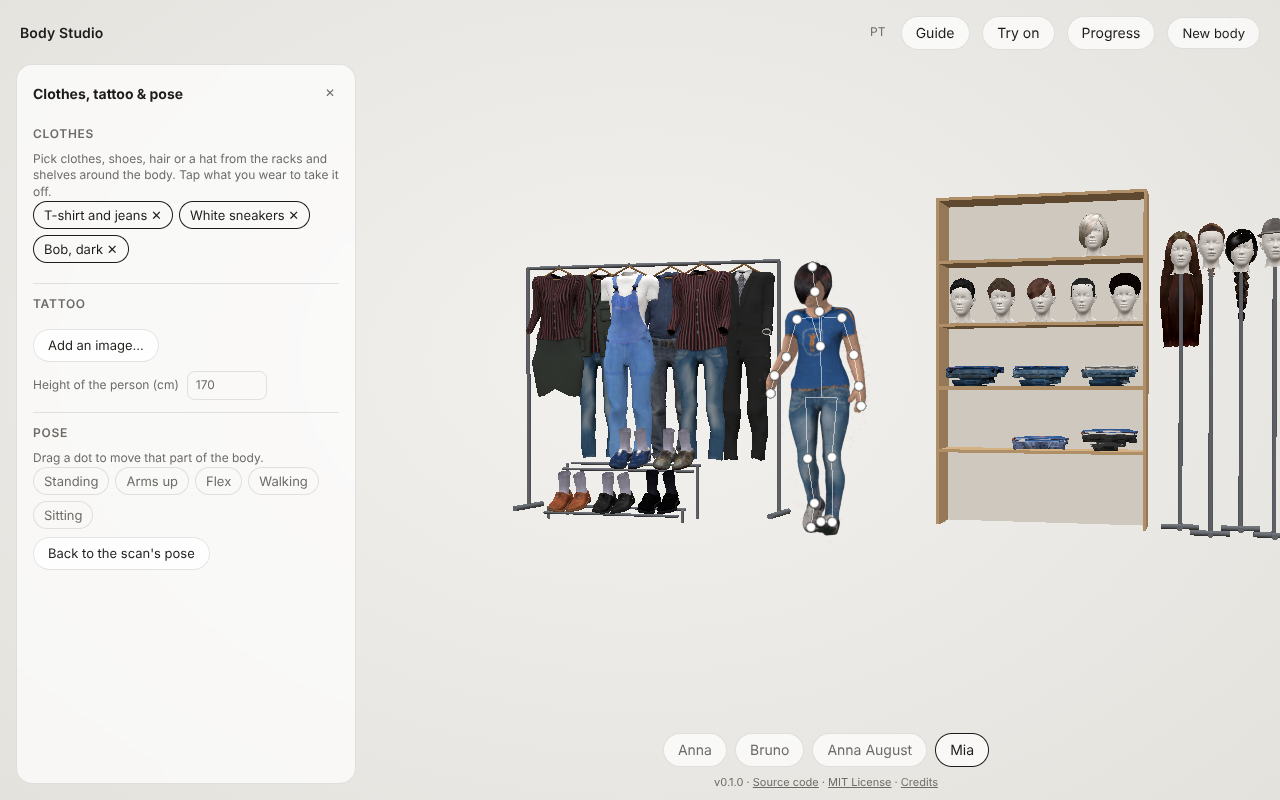
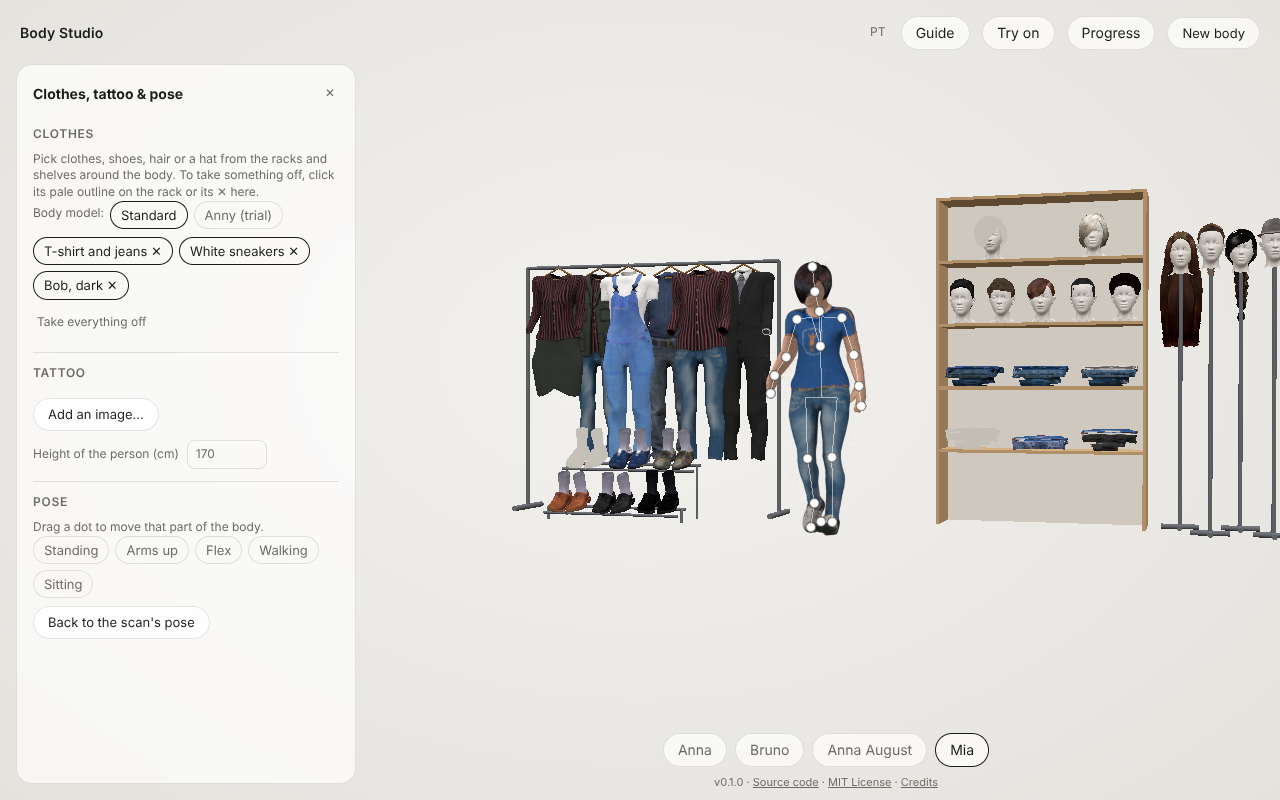
Anny installs itself: body-studio setup and the first click on Anny
body-studio setup now installs PyTorch and Anny along with ffmpeg, COLMAP and Brush, and if
they're missing the first Anny fit the page asks for installs them into the app's Python (pip),
so the Body model switch is always shown and nothing has to be typed. A failed install is a
clear "anny" error in the panel; the standard fit is untouched. body-studio check lists Anny.

Claude-Session: https://claude.ai/code/session_012L63hZcjZNdHq7UGooSUwi

diff --git a/src/body_studio/static/i18n.js b/src/body_studio/static/i18n.js
@@ -87,6 +87,7 @@
       "rig.err.arms": "The arms weren't found: they should be held a little away from the body (A-pose).",
       "rig.err.feet": "The feet weren't found: film the whole person, feet included.",
       "rig.err.shape": "It doesn't look like a person standing in an A-pose.",
+      "rig.err.anny": "PyTorch and Anny couldn't be installed (is the Mac online?). Pick Standard: Anny is tried again the next time the app starts.",
       "tat.title": "Tattoo",
       "tat.add": "Add an image…",
       "tat.place": "Now tap the body where it goes.",
@@ -169,7 +170,7 @@
       "wear.model": "Body model:",
       "wear.model.standard": "Standard",
       "wear.model.anny": "Anny (trial)",
-      "wear.fittingAnny": "Fitting the Anny body model to this body… About two minutes, once per body.",
+      "wear.fittingAnny": "Fitting the Anny body model to this body… About two minutes, once per body (the very first time a few minutes more, to install it).",
       "foot.credits": "Credits",
       "wear.item.tee_jeans_f": "T-shirt and jeans",
       "wear.item.tee_shorts": "T-shirt and denim shorts",
@@ -284,6 +285,7 @@
       "rig.err.arms": "Os braços não foram encontrados: eles devem ficar um pouco afastados do corpo (pose A).",
       "rig.err.feet": "Os pés não foram encontrados: filme a pessoa inteira, com os pés.",
       "rig.err.shape": "Não parece uma pessoa em pé na pose A.",
+      "rig.err.anny": "Não foi possível instalar o PyTorch e o Anny (o Mac está conectado?). Escolha Padrão: o Anny será tentado de novo quando o app for aberto outra vez.",
       "tat.title": "Tatuagem",
       "tat.add": "Adicionar imagem…",
       "tat.place": "Agora toque no corpo onde ela vai ficar.",
@@ -366,7 +368,7 @@
       "wear.model": "Modelo de corpo:",
       "wear.model.standard": "Padrão",
       "wear.model.anny": "Anny (teste)",
-      "wear.fittingAnny": "Ajustando o modelo de corpo Anny a este corpo… Cerca de dois minutos, uma vez por corpo.",
+      "wear.fittingAnny": "Ajustando o modelo de corpo Anny a este corpo… Cerca de dois minutos, uma vez por corpo (na primeira vez, alguns minutos a mais para instalá-lo).",
       "foot.credits": "Créditos",
       "wear.item.tee_jeans_f": "Camiseta e jeans",
       "wear.item.tee_shorts": "Camiseta e short jeans",

diff --git a/tests/unit/test_anny_fit.py b/tests/unit/test_anny_fit.py
@@ -1,10 +1,11 @@
-"""The Anny trial (anny_fit.py): without PyTorch it says how to install it; with PyTorch and Anny
-installed (pip install '.[anny]') it fits the MakeHuman test body and its file is one the
+"""The Anny trial (anny_fit.py): without PyTorch it installs it (setup, or the first fit), and says
+so when it can't; with PyTorch and Anny installed it fits the MakeHuman test body and its file is one the
 clothes accept. CI has no PyTorch, so the fitting tests run only where it is installed."""
 import contextlib
 import io
 import json
 import math
+import subprocess
 import sys
 import tempfile
 import unittest
@@ -24,16 +25,62 @@ except ImportError:
     HAVE = False
 
 
+def pip_fails(cmd, **kw):
+    return subprocess.CompletedProcess(cmd, 1, "ERROR: No matching distribution found for torch>=2.0\n")
+
+
 class WithoutTorch(unittest.TestCase):
-    def test_says_how_to_install_it(self):
+    def test_says_when_it_cant_install_it(self):
         with tempfile.TemporaryDirectory() as tmp:
             ply = Path(tmp) / "body.ply"
             write_body(ply, n=20000)
-            with mock.patch.dict(sys.modules, {"torch": None, "anny": None}):
+            with mock.patch.object(anny_fit, "available", lambda: False), \
+                    mock.patch.object(anny_fit.subprocess, "run", side_effect=pip_fails) as run:
                 with self.assertRaises(SystemExit) as e:
                     cli.main(["fit-anny", str(ply)])
-            self.assertIn("pip install 'body-studio[anny]'", str(e.exception.code))
+            self.assertIn("couldn't install PyTorch and Anny", str(e.exception.code))
+            self.assertIn("No matching distribution", str(e.exception.code))
+            self.assertEqual(run.call_args.args[0], [sys.executable, "-m", "pip", "install", "anny>=0.6", "torch>=2.0"])
             self.assertFalse(anny_fit.fit_file(ply).exists())
+
+    def test_installs_once_into_this_python(self):
+        """Into the app's own Python, and not again once it's there."""
+        state = {"in": False}
+
+        def pip(cmd, **kw):
+            state["in"] = True
+            return subprocess.CompletedProcess(cmd, 0, "")
+        with mock.patch.object(anny_fit, "available", lambda: state["in"]), \
+                mock.patch.object(anny_fit.subprocess, "run", side_effect=pip) as run:
+            anny_fit.install()
+            anny_fit.install()
+        self.assertEqual(run.call_count, 1)
+        self.assertEqual(run.call_args.args[0][:4], [sys.executable, "-m", "pip", "install"])
+
+    def test_the_extra_and_the_install_agree(self):
+        text = (Path(__file__).resolve().parents[2] / "pyproject.toml").read_text()
+        self.assertIn("anny = " + json.dumps(list(anny_fit.REQUIRES)), text)
+
+    def test_setup_installs_it(self):
+        """`body-studio setup` installs PyTorch and Anny with the other tools; a failure there
+        doesn't stop the rest. `check` lists it."""
+        calls = []
+        splat = mock.MagicMock(side_effect=lambda argv: calls.append(("splat", argv)))
+        with mock.patch.dict(sys.modules, {"splat_studio.__main__": mock.MagicMock(main=splat)}):
+            with mock.patch.object(anny_fit, "install", side_effect=lambda log: calls.append(("anny",))):
+                cli.main(["setup"])
+                cli.main(["setup", "--masking"])
+            self.assertEqual(calls, [("anny",), ("splat", ["setup"]), ("splat", ["setup", "--masking"])])
+            out = io.StringIO()
+            with mock.patch.object(anny_fit, "install", side_effect=anny_fit.Missing("couldn't install PyTorch and Anny")), \
+                    contextlib.redirect_stdout(out):
+                cli.main(["setup"])
+            self.assertIn("left out", out.getvalue())
+            self.assertEqual(splat.call_args.args[0], ["setup"])
+            out = io.StringIO()
+            with mock.patch.object(anny_fit, "available", lambda: False), contextlib.redirect_stdout(out):
+                cli.main(["check"])
+            self.assertIn("· Anny", out.getvalue())
 
     def test_help_needs_no_torch(self):
         out = io.StringIO()
@@ -52,7 +99,7 @@ class WithoutTorch(unittest.TestCase):
             self.assertTrue(anny_fit.body_slider(label), label)
 
 
-@unittest.skipUnless(HAVE, "PyTorch and Anny aren't installed (pip install '.[anny]')")
+@unittest.skipUnless(HAVE, "PyTorch and Anny aren't installed (body-studio setup, or pip install '.[anny]')")
 class WithAnny(unittest.TestCase):
     @classmethod
     def setUpClass(cls):

diff --git a/src/body_studio/anny_fit.py b/src/body_studio/anny_fit.py
@@ -1,11 +1,12 @@
 """Trial: MakeHuman's base mesh fitted to a body with Anny, a PyTorch body model, in place of
 fit.py's shape solve, bone bending and shrinkwrap. Optional and experimental, to compare the two.
 
-    pip install 'body-studio[anny]'          PyTorch and Anny (Apache-2.0 code, CC0 MakeHuman data)
+    body-studio setup                        also installs PyTorch and Anny (Apache-2.0 code, CC0 MakeHuman data)
     body-studio fit-anny BODY.ply [--no-wrap]  writes BODY.anny.fit.json next to BODY.fit.json
 
-When it is installed, the Try on panel offers a switch between the two body models (the page asks
-GET /api/fit?model=anny), and the server makes this file the first time it is asked for.
+The Try on panel offers a switch between the two body models (the page asks GET
+/api/fit?model=anny), and the server makes this file the first time it is asked for. Without
+PyTorch and Anny, that first time installs them into the app's Python (install()): nothing to type.
 
 Anny (https://github.com/naver/anny) is MakeHuman with its shape sliders made differentiable:
 eleven overall ones (gender, age, muscle, weight, height, proportions, cup size, firmness and
@@ -36,7 +37,9 @@ from __future__ import annotations
 import argparse
 import json
 import math
+import subprocess
 import sys
+import threading
 from functools import lru_cache
 from pathlib import Path
 
@@ -59,8 +62,14 @@ POSE_BONES = ("spine01", "spine02", "spine03", "spine04", "spine05", "neck01", "
               "clavicle.R", "shoulder01.R", "upperarm01.R", "lowerarm01.R", "wrist.R")
 
 
+REQUIRES = ("anny>=0.6", "torch>=2.0")      # the same as pyproject's [anny] extra
+
+
 class Missing(RuntimeError):
     code = "anny"
+
+
+_installing = threading.Lock()
 
 
 def available() -> bool:
@@ -69,12 +78,29 @@ def available() -> bool:
     return find_spec("torch") is not None and find_spec("anny") is not None
 
 
+def install(log=None) -> None:
+    """Install PyTorch and Anny into this Python (pip, a few minutes, once): `body-studio setup`
+    does it, and the server does it the first time the page asks for an Anny fit."""
+    with _installing:
+        if available():
+            return
+        if log:
+            log("Installing PyTorch and Anny for the Anny body model (once, a few minutes)...")
+        r = subprocess.run([sys.executable, "-m", "pip", "install", *REQUIRES], text=True,
+                           stdout=None if log else subprocess.PIPE, stderr=subprocess.STDOUT)
+        from importlib import invalidate_caches
+        invalidate_caches()
+        if r.returncode or not available():
+            tail = (r.stdout or "").strip().splitlines()[-3:]
+            raise Missing("couldn't install PyTorch and Anny" + (": " + " ".join(tail) if tail else ""))
+
+
 def _torch():
     try:
         import torch
         import anny
     except ImportError as e:
-        raise Missing("the Anny trial needs PyTorch and Anny: pip install 'body-studio[anny]'") from e
+        raise Missing("the Anny trial needs PyTorch and Anny: body-studio setup installs them") from e
     return torch, anny
 
 
@@ -322,6 +348,7 @@ def current(ply: Path) -> bool:
 
 
 def build_and_save(ply: Path, wrap: bool = True, log=None) -> dict:
+    install(log)
     r = build(ply, wrap, log)
     f = fit_file(ply)
     tmp = f.with_name(f.name + ".tmp")

diff --git a/src/body_studio/__main__.py b/src/body_studio/__main__.py
@@ -3,13 +3,13 @@
     body-studio                       open the app (same as `body-studio ui`)
     body-studio ui [--data-dir D] [--port N] [--no-browser]
     body-studio run VIDEO [options]   whole pipeline in the terminal (see `run --help`)
-    body-studio setup                 install ffmpeg, COLMAP and Brush (splat-studio's setup)
+    body-studio setup                 install ffmpeg, COLMAP and Brush (splat-studio's setup), and PyTorch and Anny
     body-studio check                 show which tools are installed
     body-studio measure BODY.ply --sex m --height 178 [--weight 80] [--tape-waist 86]
                                       neck, waist, hips and a body fat estimate (experimental)
     body-studio rig BODY.ply          find the skeleton, for posing and tattoos (experimental)
     body-studio fit BODY.ply          fit the base mesh the wardrobe's clothes are made for (experimental)
-    body-studio fit-anny BODY.ply     the same with Anny, a PyTorch body model (trial: pip install 'body-studio[anny]')
+    body-studio fit-anny BODY.ply     the same with Anny, a PyTorch body model (trial)
     body-studio person NAME --sex m --height 178     add a person whose progress you follow
     body-studio tape NAME --waist 86 [--neck 38] [--hip 98] [--weight 80] [--date 2026-10-12]
     body-studio scan NAME VIDEO/run_DATE_TIME        add a finished body to their history
@@ -69,6 +69,16 @@ def main(argv: list[str] | None = None) -> None:
         return history_main(cmd, rest, DEFAULT_DATA)
     if cmd in ("setup", "check"):
         from splat_studio.__main__ import main as splat_main
+
+        from . import anny_fit
+        if cmd == "check":
+            print(f"  {'✓' if anny_fit.available() else '·'} {'Anny':<9} body model trial in Try on "
+                  "(PyTorch; body-studio setup installs it)")
+        elif not {"--masking", "--dry-run", "-h", "--help"} & set(rest):
+            try:
+                anny_fit.install(print)
+            except anny_fit.Missing as e:      # the app works without it: say so and go on
+                print(f"{e}. The Anny body model is left out; run body-studio setup again to retry.")
         return splat_main([cmd, *rest])
     sys.exit(f"unknown command {cmd!r}. Try: body-studio --help")
 

diff --git a/tests/browser/test_viewer.py b/tests/browser/test_viewer.py
@@ -325,7 +325,7 @@ class Viewer(unittest.TestCase):
         # every item is on a rack, a shelf or a stand around the body, and the panel lists none
         shop = page.evaluate("wardrobe.shop()")
         self.assertTrue(shop["shown"])
-        self.assertTrue(page.is_hidden("#wearModel"))          # Anny isn't installed: no choice of model
+        self.assertFalse(page.evaluate("document.getElementById('wearModel').hidden"))   # Anny is always offered
         self.assertEqual(len(shop["racked"]), 29)
         self.assertEqual(page.locator("#wearWorn button").count(), 0)
         # pointing at one names it; clicking it puts it on and takes it off the rack
@@ -419,8 +419,8 @@ class Viewer(unittest.TestCase):
         page.close()
 
     def test_switches_the_body_model(self):
-        """With Anny installed the panel offers both body models; switching fits the clothes worn
-        again on the other. (CI has no PyTorch: a standard fit stands in for Anny's.)"""
+        """The panel offers both body models; switching fits the clothes worn again on the other.
+        (CI has no PyTorch: a standard fit stands in for Anny's, so nothing is installed.)"""
         from unittest import mock
         from body_studio import anny_fit, fit
 
@@ -429,10 +429,9 @@ class Viewer(unittest.TestCase):
             r["model"] = "anny"
             anny_fit.fit_file(ply).write_text(json.dumps(r, separators=(",", ":")))
             return r
-        for p in (mock.patch.object(anny_fit, "available", lambda: True),
-                  mock.patch.object(anny_fit, "build_and_save", fake)):
-            p.start()
-            self.addCleanup(p.stop)
+        p = mock.patch.object(anny_fit, "build_and_save", fake)
+        p.start()
+        self.addCleanup(p.stop)
         page = self.browser.new_page(viewport={"width": 1280, "height": 800})
         self.addCleanup(page.close)
         errors, asked = [], []

diff --git a/tests/unit/test_server.py b/tests/unit/test_server.py
@@ -219,17 +219,20 @@ class Server(unittest.TestCase):
                 return status, d
             time.sleep(0.2)
 
-    def test_anny_is_offered_only_when_installed(self):
+    def test_anny_is_installed_when_first_asked_for(self):
+        """Anny is always offered; the first Anny fit installs PyTorch and Anny, and a failed
+        install is a clear no (code "anny") rather than a hang."""
+        import subprocess
         from body_studio import anny_fit
+        self.assertEqual(self.post("/api/fit/models", None, method="GET"), (200, ["standard", "anny"]))
         write_body(self.d / "data" / "workspace" / "Ana" / "run_1" / "splat" / "standard_30000_object.ply")
         body = "?body=workspace/Ana/run_1/splat/standard_30000_object.ply&model=anny"
         with mock.patch.object(anny_fit, "available", lambda: False), \
-                mock.patch.dict(sys.modules, {"torch": None, "anny": None}):
-            self.assertEqual(self.post("/api/fit/models", None, method="GET"), (200, ["standard"]))
+                mock.patch.object(anny_fit.subprocess, "run",
+                                  side_effect=lambda cmd, **kw: subprocess.CompletedProcess(cmd, 1, "offline")) as run:
             status, d = self.wait("/api/fit" + body)
-            self.assertEqual((status, d["code"]), (422, "anny"))      # the page never asks; a clear no
-        with mock.patch.object(anny_fit, "available", lambda: True):
-            self.assertEqual(self.post("/api/fit/models", None, method="GET"), (200, ["standard", "anny"]))
+        self.assertEqual((status, d["code"]), (422, "anny"))
+        self.assertEqual(run.call_args.args[0][1:4], ["-m", "pip", "install"])
 
     def test_the_anny_fit_is_kept_apart(self):
         """?model=anny asks anny_fit for its own file; the standard fit is left as it is. (Anny itself

diff --git a/src/body_studio/server.py b/src/body_studio/server.py
@@ -10,8 +10,8 @@
     GET  /api/rig?body=<file>  the body's skeleton, skin weights and surface map (rig.py); 202 while
                            it is being worked out in the background, 422 if the body isn't a person
     GET  /api/fit?body=<file>  MakeHuman's base mesh fitted to the body (fit.py); 202 and 422 the same.
-                           &model=anny: fitted with Anny instead (anny_fit.py, only when installed)
-    GET  /api/fit/models       the body models the fit can use: ["standard"], plus "anny" when installed
+                           &model=anny: fitted with Anny instead (anny_fit.py; installs it the first time)
+    GET  /api/fit/models       the body models the fit can use: ["standard", "anny"]
     GET  /api/wardrobe         the clothes, shoes, hair and hats (wardrobe.py)
     GET  /api/wardrobe/<id>?body=<file>[&model=anny]  one item fitted to the body; 202 while the body is fitted
     GET  /api/wardrobe/<id>/shape        the item as it is made, for the shop around the body
@@ -189,7 +189,7 @@ def make_handler(data: DataDir, runner: Runner):
             if p.startswith("/files/"):
                 return self._file(library.safe_path(data.root, p[len("/files/"):]))
             if p == "/api/fit/models":
-                return self._json(["standard"] + (["anny"] if anny_fit.available() else []))
+                return self._json(["standard", "anny"])
             if p in ("/api/rig", "/api/fit"):
                 state, out = self._built(rigs if p == "/api/rig" else self._fits())
                 return self._file(out) if state == "ready" else None

diff --git a/README.md b/README.md
@@ -34,7 +34,7 @@ git clone https://github.com/gpspelle/body-studio.git
 cd body-studio
 python3 -m venv .venv && source .venv/bin/activate
 pip install -e .
-body-studio setup        # installs ffmpeg, COLMAP and builds Brush, once (10–30 min)
+body-studio setup        # installs ffmpeg, COLMAP, builds Brush, and PyTorch and Anny, once (10–30 min)
 body-studio              # opens http://localhost:8770
 ```
 
@@ -167,11 +167,12 @@ and their licences, and the limits: [docs/tattoo.md](docs/tattoo.md).
 next to the body. How the clothes are fitted and drawn, where they come from, and the limits:
 [docs/wardrobe.md](docs/wardrobe.md).
 
-Trial: after `pip install 'body-studio[anny]'` (PyTorch and [Anny](https://github.com/naver/anny), a
-body model), the Try on panel shows **Body model: Standard / Anny (trial)**, to see the same
-clothes on a body fitted either way. The Anny fit takes about two minutes the first time per body
-and is saved as `BODY.anny.fit.json`; `body-studio fit-anny BODY.ply` makes it in the terminal.
-PyTorch is only needed for this. Results so far: [docs/anny.md](docs/anny.md).
+Trial: the Try on panel shows **Body model: Standard / Anny (trial)**, to see the same clothes on a
+body fitted either way ([Anny](https://github.com/naver/anny) is a body model that runs on PyTorch).
+`body-studio setup` installs PyTorch and Anny; if they aren't there, the first click on Anny installs
+them, with nothing to type (a few minutes, once). The Anny fit takes about two minutes the first time
+per body and is saved as `BODY.anny.fit.json`; `body-studio fit-anny BODY.ply` makes it in the
+terminal. PyTorch is only needed for this. Results so far: [docs/anny.md](docs/anny.md).
 
 ## Development
 
@@ -209,7 +210,7 @@ git clone https://github.com/gpspelle/body-studio.git
 cd body-studio
 python3 -m venv .venv && source .venv/bin/activate
 pip install -e .
-body-studio setup        # instala ffmpeg e COLMAP e compila o Brush, uma vez (10 a 30 min)
+body-studio setup        # instala ffmpeg, COLMAP, compila o Brush e instala PyTorch e Anny, uma vez (10 a 30 min)
 body-studio              # abre http://localhost:8770
 ```
 
@@ -306,9 +307,10 @@ Como funciona, os modelos de corpo considerados e suas licenças, e os limites (
 corpo. Como as roupas são ajustadas e desenhadas, de onde vêm e os limites (em inglês):
 [docs/wardrobe.md](docs/wardrobe.md).
 
-Teste: depois de `pip install 'body-studio[anny]'` (PyTorch e o [Anny](https://github.com/naver/anny),
-um modelo de corpo), o painel Provar mostra **Modelo de corpo: Padrão / Anny (teste)**, para ver as
-mesmas roupas num corpo ajustado de um jeito ou de outro. O ajuste com o Anny leva cerca de dois
+Teste: o painel Provar mostra **Modelo de corpo: Padrão / Anny (teste)**, para ver as mesmas roupas
+num corpo ajustado de um jeito ou de outro (o [Anny](https://github.com/naver/anny) é um modelo de
+corpo que roda no PyTorch). O `body-studio setup` instala o PyTorch e o Anny; se não estiverem lá, o
+primeiro clique em Anny os instala, sem nada para digitar (alguns minutos, uma vez). O ajuste com o Anny leva cerca de dois
 minutos na primeira vez para cada corpo e fica salvo como `CORPO.anny.fit.json`;
 `body-studio fit-anny CORPO.ply` faz o mesmo no terminal. O PyTorch só é preciso para isso.
 Resultados até agora (em inglês): [docs/anny.md](docs/anny.md).

diff --git a/CHANGELOG.md b/CHANGELOG.md
@@ -107,3 +107,6 @@
   model between Standard and Anny, with the same clothes on. The Anny fit is saved as
   `<body>.anny.fit.json`; `body-studio fit-anny BODY.ply [--no-wrap]` makes it in the terminal.
   See `docs/anny.md`.
+- Anny installs itself: `body-studio setup` installs PyTorch and Anny with the other tools, and the
+  first click on **Anny** in the Try on panel installs them if they're missing, so the switch is
+  always there and nothing has to be typed. `body-studio check` lists Anny.
